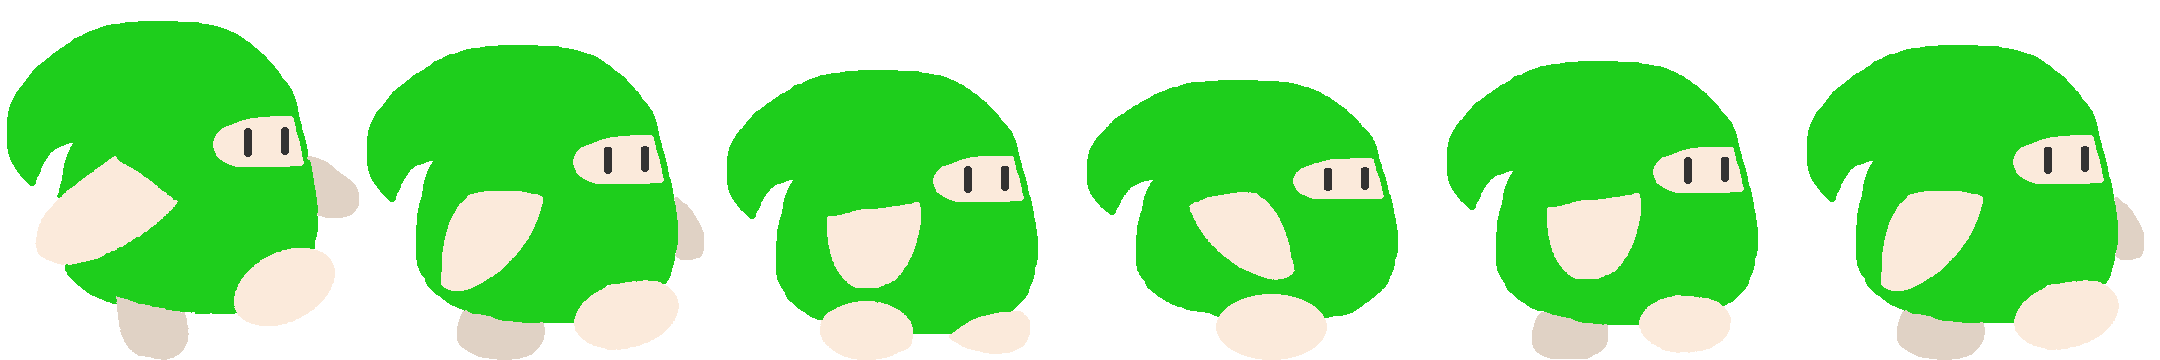
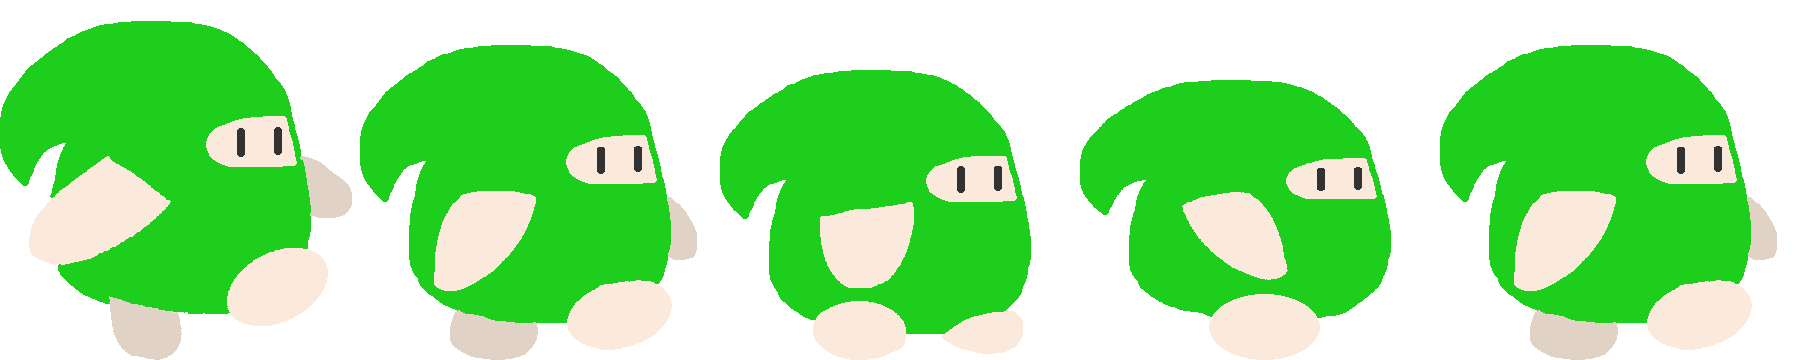
さしかえ

diff --git a/Projects/Game/Src/GameObject/Component/DwarfAnimator.cpp b/Projects/Game/Src/GameObject/Component/DwarfAnimator.cpp
@@ -1,4 +1,5 @@
 #include "DwarfAnimator.h"
+#include "Engine/Graphics/TextureManager/TextureManager.h"
 
 void DwarfAnimatorComp::Init()
 {
@@ -12,15 +13,27 @@ void DwarfAnimatorComp::Init()
 	spriteAnimator_ = pAnimComp_->GetAnimator();
 	spriteAnimator_->SetDuration(0.25f);
 	spriteAnimator_->SetLoopAnimation(true);
-	spriteAnimator_->SetAnimationNumber(6u);
+	spriteAnimator_->SetAnimationNumber(5u);
 	spriteAnimator_->Start();
 
 	pSpriteComp_->SetTexture("./Resources/Enemy/dwarfWalk.png");
+	TextureManager::GetInstance()->LoadTexture("./Resources/Enemy/dwarfHaveGauge.png");
 }
 
 void DwarfAnimatorComp::Update()
 {
+	bool isHave = 0 < pPickUpComp_->GetBlockWeight();
+
 	// 0.0 ~ 1.0 の間で、1.0はギリ死なない
-	pSpriteComp_->SetTexture(0 < pPickUpComp_->GetBlockWeight() ? "./Resources/Enemy/dwarfHave.png" : "./Resources/Enemy/dwarfWalk.png");
+	pSpriteComp_->SetTexture(isHave ? "./Resources/Enemy/dwarfHaveGauge.png" : "./Resources/Enemy/dwarfWalk.png");
+	spriteAnimator_->SetVerticalSize(isHave ? 1.0f / 7.0f : 1.0f);
+	if (isHave) {
+		spriteAnimator_->SetVerticalPos(static_cast<float>(pPickUpComp_->GetBlockWeight()) / 7.0f);
+	}
+	else {
+		spriteAnimator_->SetVerticalPos(0.0f);
+	}
+
+
 	spriteAnimator_->FlipHorizontal(pDwarfComp_->GetFacing() < 0);
 }

diff --git a/Projects/LambEngine/Engine/Graphics/Tex2DAniamtor/Tex2DAniamtor.h b/Projects/LambEngine/Engine/Graphics/Tex2DAniamtor/Tex2DAniamtor.h
@@ -58,6 +58,11 @@ public:
 		startPos_ = startPos;
 	}
 
+	void SetVerticalPos(float yPos) {
+		startPos_.y = yPos;
+		currentPos_.y = yPos;
+	}
+
 	/// <summary>
 	/// <para>アニメーションをループさせるか</para>
 	/// <para>isFullAnimationがfalseの場合、設定されたindexのアニメーションでループする</para>
@@ -86,6 +91,8 @@ public:
 	/// </summary>
 	/// <param name="isSingned">trueなら反転</param>
 	void FlipHorizontal(bool isSingned);
+
+	void SetVerticalSize(float ySize);
 
 private:
 	Vector3 startPos_;

diff --git a/Projects/LambEngine/Engine/Graphics/Tex2DAniamtor/Tex2DAniamtor.cpp b/Projects/LambEngine/Engine/Graphics/Tex2DAniamtor/Tex2DAniamtor.cpp
@@ -64,3 +64,7 @@ void Tex2DAniamtor::FlipHorizontal(bool isSingned) {
 		scale_.x *= -1.0f;
 	}
 }
+
+void Tex2DAniamtor::SetVerticalSize(float ySize) {
+	scale_.y = ySize;
+}
